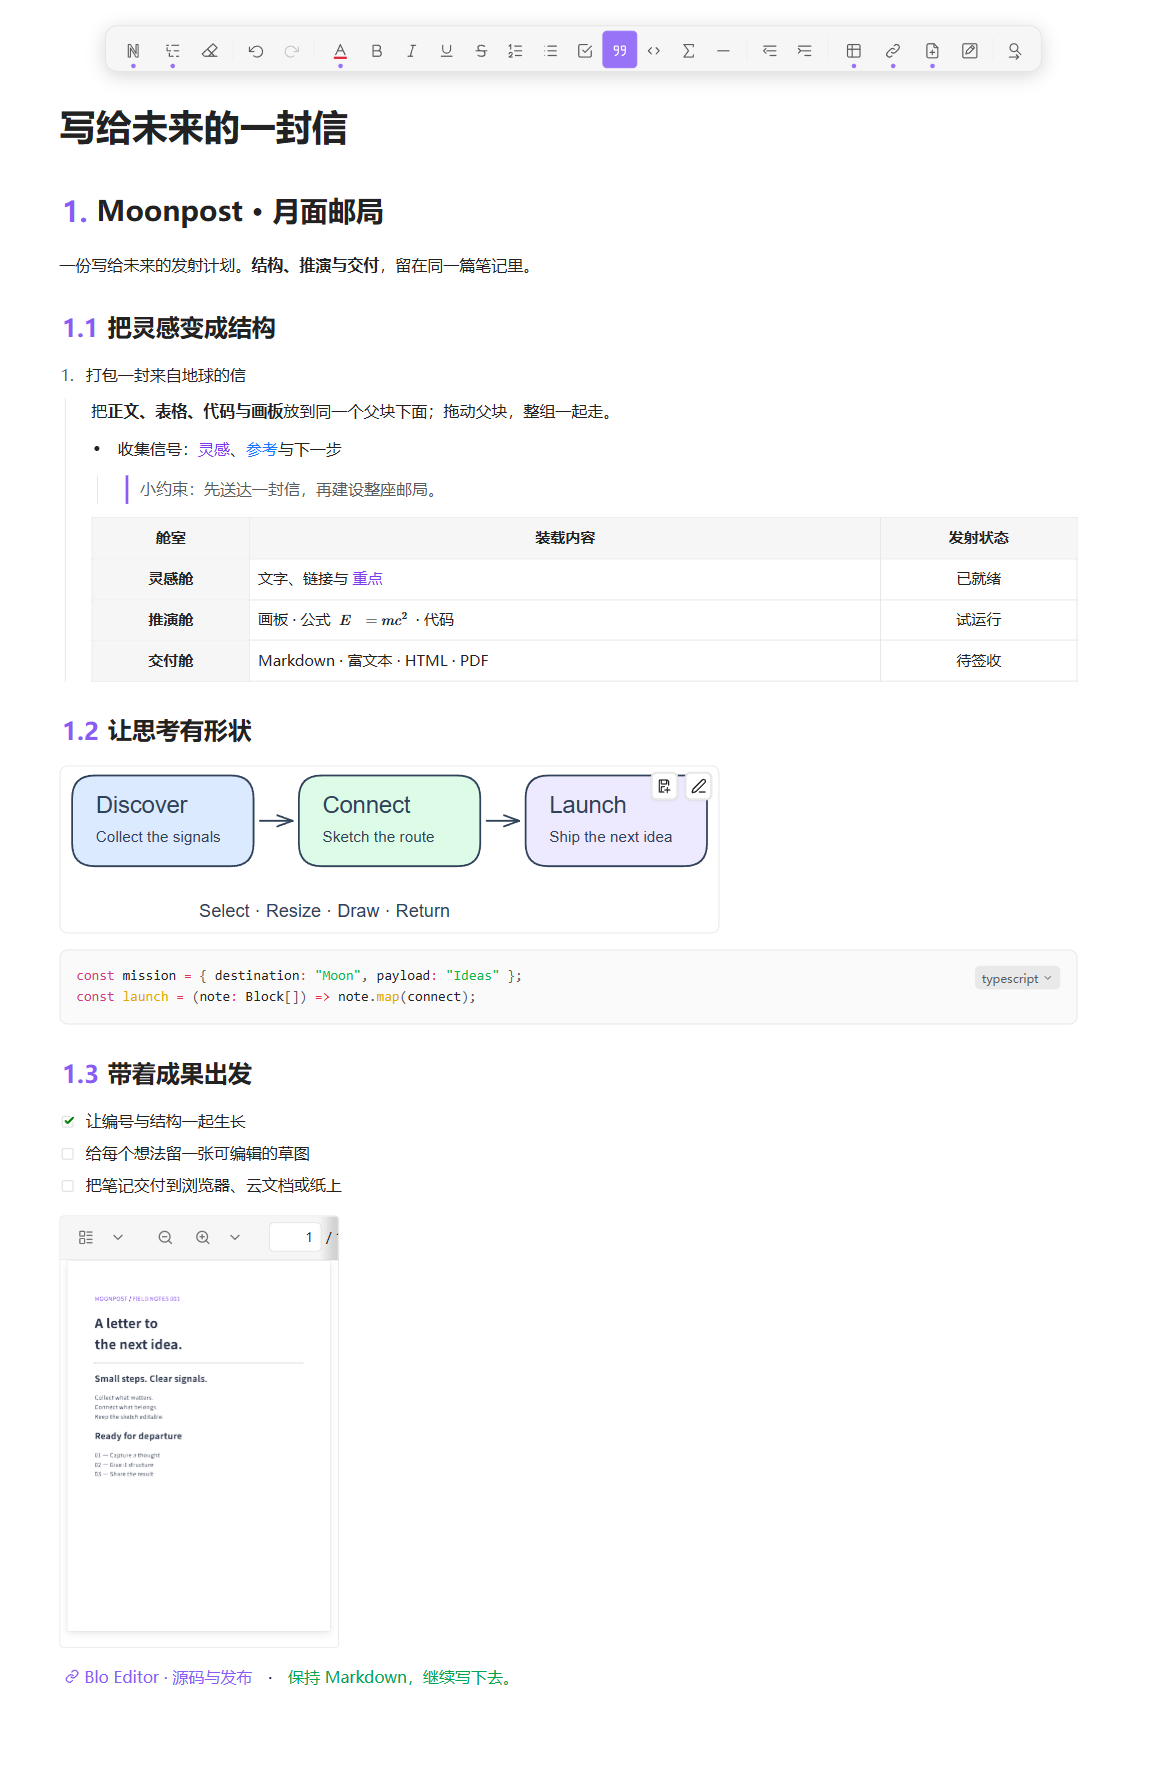
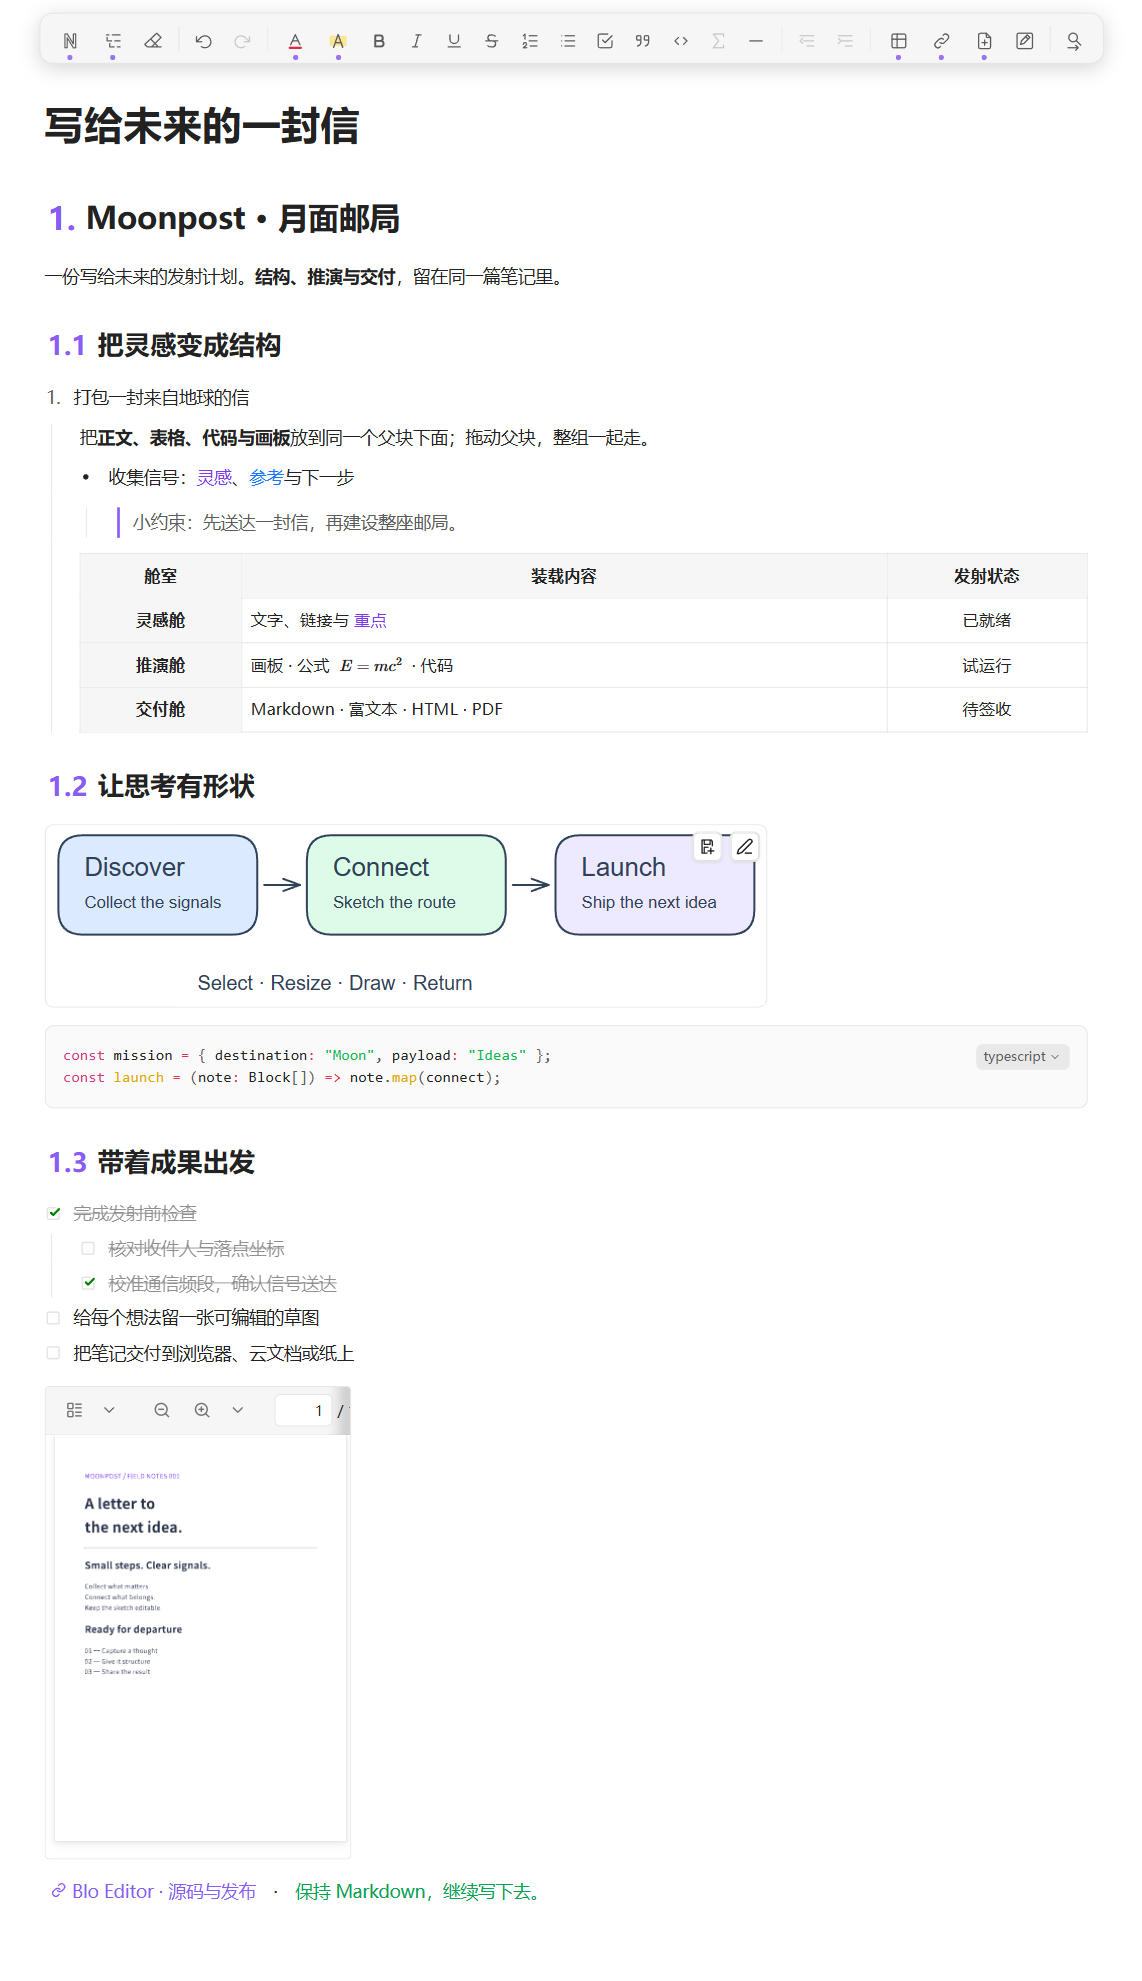
docs: showcase presentation and nested tasks with refreshed screenshots

diff --git a/README.zh-CN.md b/README.zh-CN.md
@@ -6,7 +6,7 @@
 
 <p align="center"><a href="README.md">English</a> · <strong>简体中文</strong></p>
 
-![月面邮局：在同一篇笔记中组合标题编号、父子块、表格、画板、代码、任务和 PDF](assets/overview-light.png#srcSize=1156x1770&size=719x1101)
+![月面邮局：在同一篇笔记中组合标题编号、父子块、表格、画板、代码、任务和 PDF](assets/overview-light.png)
 
 演示笔记「**月面邮局**」把一个小项目的计划、草图和交付资料放在一起。截图均来自真实编辑器，使用虚构的公开演示内容。
 
@@ -30,7 +30,15 @@
 
 图片和 PDF 支持缩放预览，PDF 保留工具栏与翻页功能。媒体链接可下载到附件目录，以独立块嵌入；原生 Obsidian 块链接则把不同笔记里的具体想法连接起来。
 
-![可编辑画板与带语法高亮的 TypeScript 代码](assets/tour-drawing.png)
+任务清单也有层级竖线。完成父任务，子项一起淡化并加上删除线；取消后恢复，保留各子任务自己的勾选状态。
+
+![可编辑画板、代码高亮与分层任务清单](assets/tour-drawing.png)
+
+## 把笔记变成讲解现场
+
+**演示模式**全屏居中展示笔记，支持整体内容缩放。用红外笔划出重点，轨迹随页面滚动，并在松手后逐渐消失。
+
+![演示模式中的居中内容、渐隐红外笔与整体缩放控件](assets/tour-presentation.png)
 
 ## 写好之后，带到别处
 

diff --git a/README.md b/README.md
@@ -32,7 +32,15 @@ Embed editable **Excalidraw** drawings, resize their previews, open the drawing 
 
 Images and PDFs have resizable previews; PDFs retain their toolbar and page navigation. Media links can be downloaded into the attachment folder and embedded as separate blocks. Native Obsidian block links connect specific ideas across notes.
 
-![An editable drawing alongside syntax-highlighted TypeScript](assets/tour-drawing.png)
+Task lists have hierarchy guides too. Completing a parent fades and strikes through its children; unchecking it restores their appearance while preserving each child's own checkbox state.
+
+![Editable drawings, syntax highlighting and nested task lists](assets/tour-drawing.png)
+
+## Present straight from your note
+
+**Presentation mode** puts your note in a centered fullscreen view with whole-content zoom. Highlight ideas with a laser pointer: its trail follows page scrolling and fades after release.
+
+![Centered presentation content, a fading laser trail and whole-content zoom controls](assets/tour-presentation.png)
 
 ## Take the note with you
 

diff --git a/examples/feature-tour.md b/examples/feature-tour.md
@@ -57,7 +57,15 @@ const launch = (note: Block[]) => note.map(connect);
 
 <!-- wysimark-block:v1 %7B%22depth%22%3A0%7D -->
 
-- [x] 让编号与结构一起生长
+- [x] 完成发射前检查
+
+<!-- wysimark-block:v1 %7B%22depth%22%3A1%7D -->
+
+- [ ] 核对收件人与落点坐标
+
+<!-- wysimark-block:v1 %7B%22depth%22%3A1%7D -->
+
+- [x] 校准通信频段，确认信号送达
 
 <!-- wysimark-block:v1 %7B%22depth%22%3A0%7D -->
 
